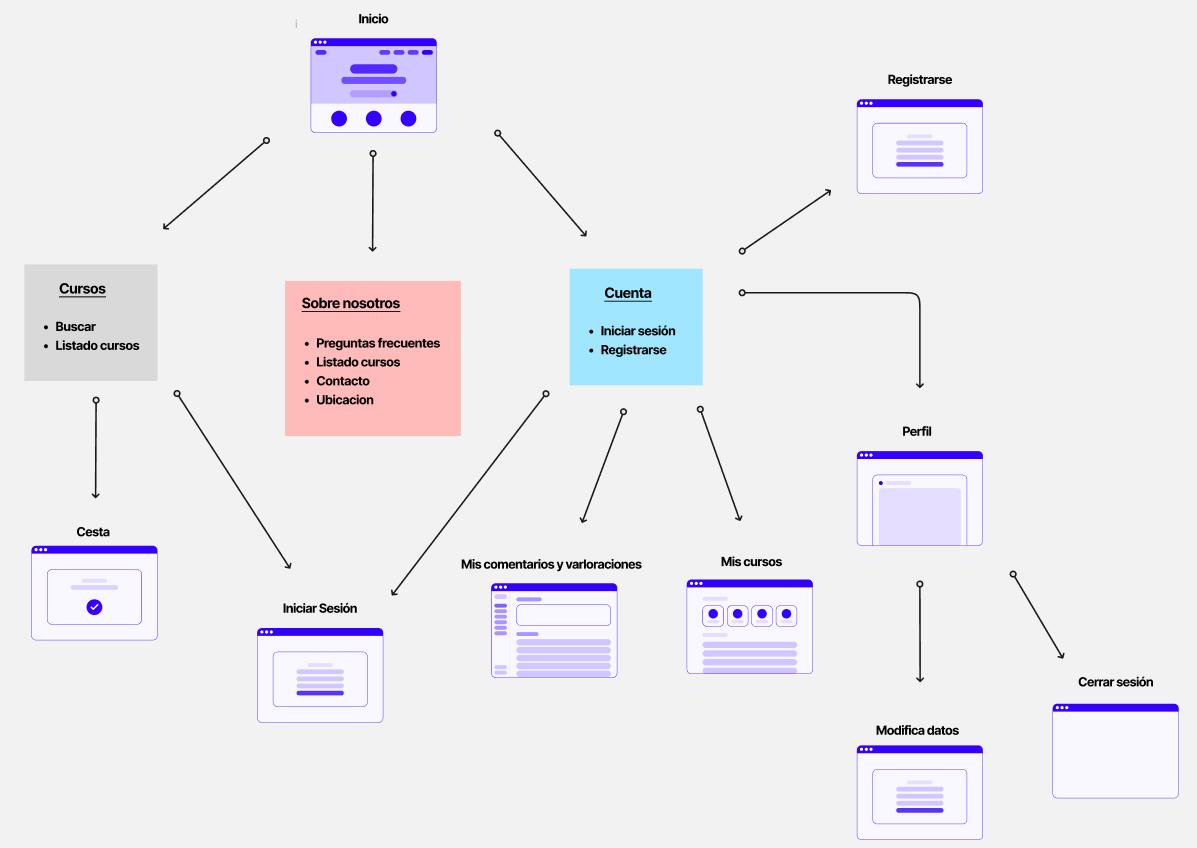
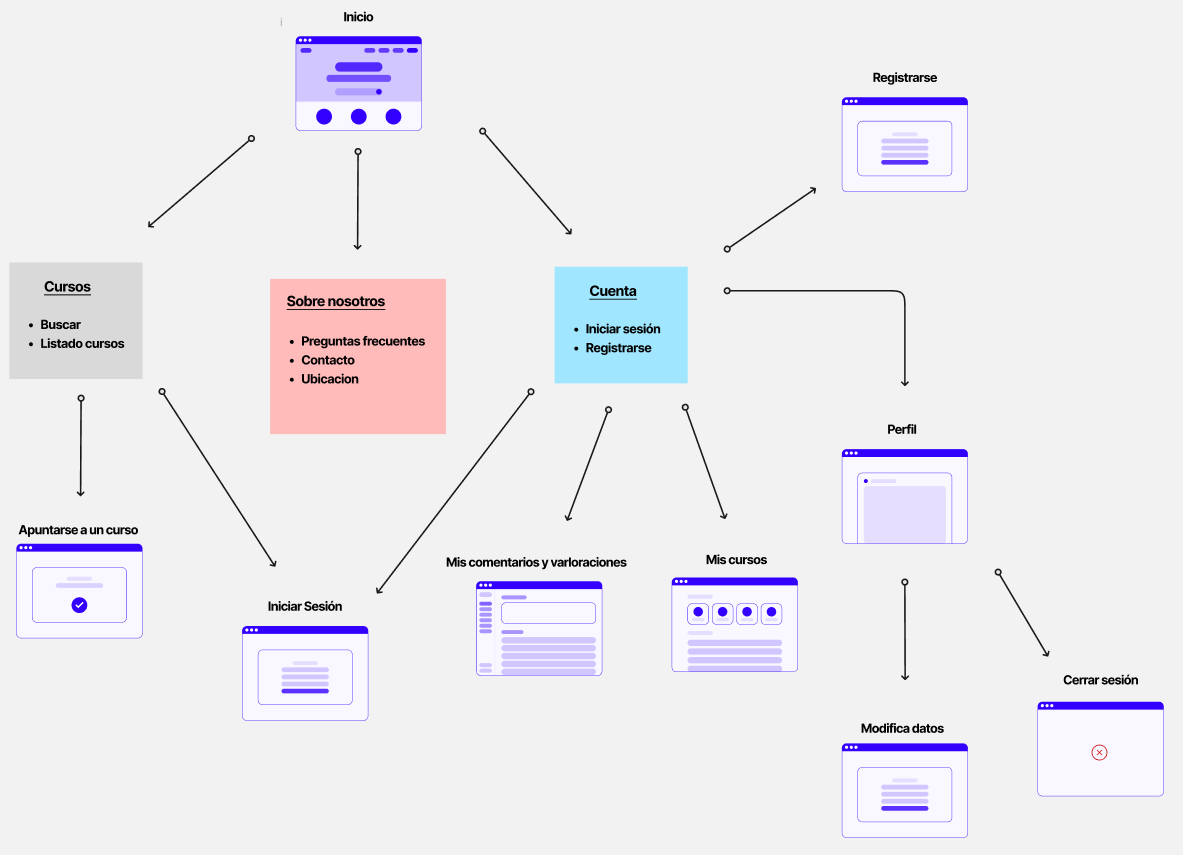
terminado hasta el apartado 4.c

diff --git a/P2/README.md b/P2/README.md
@@ -54,10 +54,9 @@ La propuesta de valor realizada en scope canvas es la siguiente:
 | Cursos                        | Página donde se puede buscar y visualizar el listado de cursos disponibles.  |
 | Buscar (Cursos)               | Funcionalidad para buscar cursos aplicando distintos filtros.                |
 | Listado cursos                | Sección que muestra todos los cursos disponibles en la plataforma.           |
-| Cesta                         | Página donde se visualizan los cursos seleccionados para comprar o inscribirse. |
+| Apuntarse a un curso          | Página donde se visualizan los cursos para inscribirse. |
 | Sobre nosotros                | Página informativa acerca de la organización o plataforma.                   |
 | Preguntas frecuentes          | Sección de "Sobre nosotros" con respuestas a las dudas más comunes.          |
-| Listado cursos (informativo) | Sección de "Sobre nosotros" que también muestra los cursos (visión general). |
 | Contacto                      | Información de contacto como email, teléfono, redes sociales, etc.           |
 | Ubicación                     | Muestra la dirección y localización geográfica de la organización.           |
 | Cuenta                        | Página desde donde se puede iniciar sesión o registrarse.                    |

diff --git a/README.md b/README.md
@@ -251,10 +251,9 @@ Término | Significado
 | Cursos                        | Página donde se puede buscar y visualizar el listado de cursos disponibles.  |
 | Buscar (Cursos)               | Funcionalidad para buscar cursos aplicando distintos filtros.                |
 | Listado cursos                | Sección que muestra todos los cursos disponibles en la plataforma.           |
-| Cesta                         | Página donde se visualizan los cursos seleccionados para comprar o inscribirse. |
+| Apuntarse a un curso          | Página donde se visualizan los cursos para inscribirse. |
 | Sobre nosotros                | Página informativa acerca de la organización o plataforma.                   |
 | Preguntas frecuentes          | Sección de "Sobre nosotros" con respuestas a las dudas más comunes.          |
-| Listado cursos (informativo) | Sección de "Sobre nosotros" que también muestra los cursos (visión general). |
 | Contacto                      | Información de contacto como email, teléfono, redes sociales, etc.           |
 | Ubicación                     | Muestra la dirección y localización geográfica de la organización.           |
 | Cuenta                        | Página desde donde se puede iniciar sesión o registrarse.                    |
